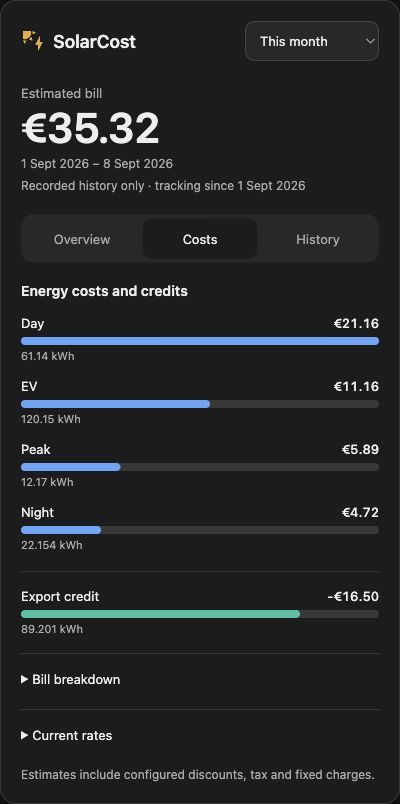
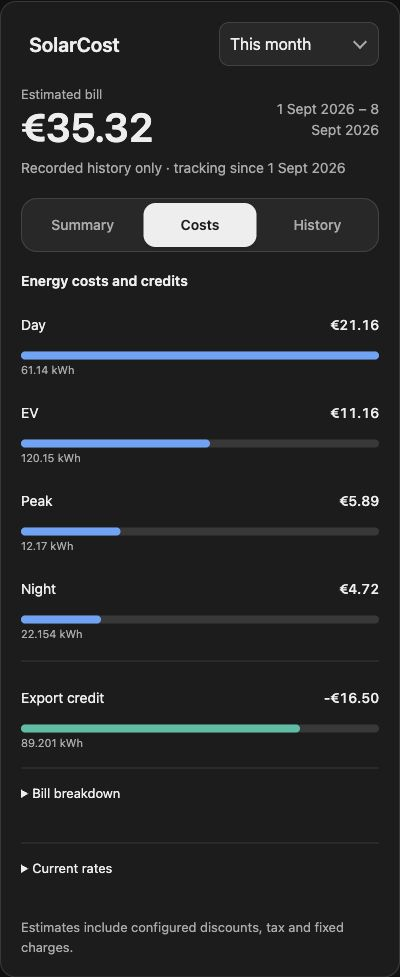
fix: prevent card startup failures and refresh dashboard UI (#7)

diff --git a/custom_components/solarcost/solarcost-card.js b/custom_components/solarcost/solarcost-card.js
@@ -1,12 +1,14 @@
 /* One SolarCost card, using the integration's existing sensors and reports. */
-import { bandRows } from "./solarcost-tou-card.js";
+// HA replaces the element registry during startup; wait before importing or defining cards.
+if (document.querySelector("home-assistant")) await customElements.whenDefined("home-assistant");
+const { bandRows } = await import(`./solarcost-tou-card.js${new URL(import.meta.url).search}`);
 
 const PERIODS = ["today", "week", "month", "last_month", "last_months", "year", "last_years", "all_time"];
 const ENERGY = [
-  ["solar_kwh", "Solar generated", "mdi:white-balance-sunny", "#e5ad27"],
-  ["usage_kwh", "Home usage", "mdi:home-lightning-bolt", "#60a5fa"],
-  ["import_kwh", "Grid import", "mdi:transmission-tower-import", "#fb923c"],
-  ["export_kwh", "Grid export", "mdi:transmission-tower-export", "#34bfa5"],
+  ["solar_kwh", "Solar generated", "mdi:white-balance-sunny", "var(--echo-solar, #e5ad27)"],
+  ["usage_kwh", "Home usage", "mdi:home-lightning-bolt", "var(--echo-blue, #60a5fa)"],
+  ["import_kwh", "Grid import", "mdi:transmission-tower-import", "var(--echo-orange, #fb923c)"],
+  ["export_kwh", "Grid export", "mdi:transmission-tower-export", "var(--echo-teal, #34bfa5)"],
 ];
 const el = (tag, text, className) => {
   const node = document.createElement(tag);
@@ -35,76 +37,103 @@ class SolarCostCard extends HTMLElement {
     this.requestId = 0;
     this.shadowRoot.innerHTML = `
       <style>
-        :host { display: block; --sc-green: #34bfa5; }
+        :host { display: block; container-type: inline-size; color-scheme: var(--echo-color-scheme, normal); --sc-green: var(--echo-teal, #34bfa5); }
         * { box-sizing: border-box; }
         [hidden] { display: none !important; }
         ha-card { padding: 20px; color: var(--primary-text-color); overflow: hidden; }
-        header { display: flex; align-items: center; justify-content: space-between; gap: 12px; flex-wrap: wrap; }
-        h2 { display: flex; align-items: center; gap: 8px; font-size: 18px; font-weight: 600; margin: 0; }
-        h2 ha-icon { color: #e5ad27; }
-        button, select, input { font: inherit; color: var(--primary-text-color); background: var(--secondary-background-color); }
+        header { display: flex; align-items: center; justify-content: space-between; gap: var(--echo-space-12,12px); flex-wrap: wrap; }
+        h2 { display: flex; align-items: center; gap: var(--echo-space-8,8px); font-size: 20px; font-weight: 600; margin: 0; }
+        h2 ha-icon { color: var(--echo-solar, #e5ad27); }
+        button, select, input { font: inherit; color: var(--primary-text-color); background: var(--echo-secondary-button,var(--secondary-background-color)); }
         button, select { cursor: pointer; }
-        button, select, input { border: 1px solid var(--divider-color); border-radius: 10px; padding: 8px 10px; min-height: 40px; min-width: 0; }
-        select { max-width: 100%; font-size: 13px; }
+        button { font-weight: 500; }
+        button, select, input { border: var(--echo-border-width,1px) solid var(--divider-color); border-radius:var(--echo-control-radius, 10px); padding: var(--echo-space-8,8px) var(--echo-space-12,10px); min-height:44px; min-width: 0; }
+        select { max-width: 100%; font-size:var(--echo-type-14,13px); }
+        .period-control { position: relative; flex: 0 1 160px; min-width: 0; max-width: 100%; }
+        .period-control select { width: 100%; appearance: none; padding-right: 34px; }
+        .period-control::after { content: ''; position: absolute; right: 14px; top: 50%; width: 8px; height: 8px; border-right: 2px solid var(--secondary-text-color); border-bottom: 2px solid var(--secondary-text-color); transform: translateY(-70%) rotate(45deg); pointer-events: none; }
         button:focus-visible, select:focus-visible, input:focus-visible, summary:focus-visible { outline: 2px solid var(--primary-color); outline-offset: 2px; }
-        .dates { display: flex; gap: 8px; flex-wrap: wrap; margin-top: 16px; align-items: end; }
-        .dates label { flex: 1; min-width: 110px; font-size: 12px; color: var(--secondary-text-color); }
-        input { width: 100%; margin-top: 4px; font-size: 13px; }
-        .hero { padding: 24px 0 20px; }
-        .eyebrow { font-size: 13px; color: var(--secondary-text-color); }
-        .amount { font-size: clamp(32px, 8vw, 42px); line-height: 1.3; font-weight: 600; letter-spacing: -1px; font-variant-numeric: tabular-nums; }
+        .dates { display: flex; gap: var(--echo-space-8,8px); flex-wrap: wrap; margin-top: var(--echo-space-16,16px); align-items: end; }
+        .dates label { flex: 1; min-width: 110px; font-size:var(--echo-type-12,12px); color: var(--secondary-text-color); }
+        input { width: 100%; margin-top: var(--echo-space-4,4px); font-size:var(--echo-type-14,13px); }
+        .hero { display: grid; grid-template-columns: 1fr auto; align-items: center; column-gap: 16px; padding: 20px 0; }
+        .hero .eyebrow { grid-column: 1; grid-row: 1; }
+        .hero .amount { grid-column: 1; grid-row: 2; }
+        .hero .range { grid-column: 2; grid-row: 1 / 3; max-width: 128px; text-align: right; line-height: 1.5; }
+        .hero .context { grid-column: 1 / -1; }
+        .hero .muted { font-size: 14px; }
+        .eyebrow { font-size:var(--echo-type-14,13px); color: var(--secondary-text-color); }
+        .amount { font-size: 40px; line-height: 1.3; font-weight: 600; letter-spacing: -1px; font-variant-numeric: tabular-nums; }
         .credit { color: var(--sc-green); }
-        .muted { font-size: 12px; color: var(--secondary-text-color); line-height: 1.5; }
-        .context { margin-top: 4px; }
-        nav { display: flex; padding: 4px; gap: 4px; border-radius: 12px; background: var(--secondary-background-color); margin-bottom: 20px; }
-        nav button { flex: 1; border: 0; background: transparent; color: var(--secondary-text-color); padding: 8px 4px; font-size: 13px; }
-        nav button[aria-pressed="true"] { color: var(--primary-text-color); background: var(--card-background-color); box-shadow: 0 1px 4px #0002; }
-        .energy { display: grid; grid-template-columns: repeat(2, minmax(0, 1fr)); gap: 10px; }
-        .tile { padding: 14px; border: 1px solid var(--divider-color); border-radius: 12px; }
-        .tile ha-icon { margin-bottom: 8px; --mdc-icon-size: 22px; }
-        .tile .value { font-size: 21px; font-weight: 500; margin-top: 3px; font-variant-numeric: tabular-nums; }
-        .unit { font-size: 12px; color: var(--secondary-text-color); font-weight: 400; margin-left: 4px; }
-        .flows { margin-top: 18px; }
-        .line { display: flex; justify-content: space-between; gap: 12px; padding: 7px 0; font-size: 13px; }
+        .muted { font-size:var(--echo-type-12,12px); color: var(--secondary-text-color); line-height: 1.5; }
+        .context { margin-top: var(--echo-space-4,4px); }
+        nav { display: flex; padding: 4px; gap: 4px; border: 1px solid var(--divider-color); border-radius: 16px; background: var(--echo-secondary-button, var(--secondary-background-color)); margin-bottom: var(--echo-space-20,20px); }
+        nav button { flex: 1; border: 0; background: transparent; color: var(--secondary-text-color); border-radius: 12px; min-height: 44px; padding: 8px; font-size: 14px; }
+        nav button:hover { color: var(--primary-text-color); background: var(--card-background-color); }
+        nav button[aria-pressed="true"] { color: var(--card-background-color); background: var(--primary-text-color); font-weight: 600; box-shadow: var(--echo-selection-shadow, 0 1px 4px #0002); }
+        .energy { display: grid; grid-template-columns: repeat(2, minmax(0, 1fr)); gap: var(--echo-space-12,10px); }
+        .tile { padding: 16px; border: var(--echo-border-width,1px) solid var(--divider-color); border-radius: 16px; background: var(--echo-panel, var(--secondary-background-color)); }
+        .tile ha-icon { margin-bottom: var(--echo-space-8,8px); --mdc-icon-size:var(--echo-icon-24,22px); }
+        .tile .value { font-size: 24px; font-weight: 600; margin-top: var(--echo-space-4,3px); font-variant-numeric: tabular-nums; overflow-wrap: anywhere; }
+        .unit { display: inline-block; font-size:var(--echo-type-12,12px); color: var(--secondary-text-color); font-weight: 400; margin-left: var(--echo-space-4,4px); }
+        .flows { margin-top: var(--echo-space-16,18px); }
+        .line { display: flex; justify-content: space-between; gap: var(--echo-space-12,12px); padding: var(--echo-space-8,7px) 0; min-height: 40px; align-items: center; font-size: 14px; }
         .line span { min-width: 0; overflow-wrap: anywhere; }
         strong { white-space: nowrap; font-variant-numeric: tabular-nums; font-weight: 500; }
-        h3 { font-size: 14px; margin: 0 0 4px; font-weight: 600; }
-        .band { margin-top: 16px; }
-        .band.export { border-top: 1px solid var(--divider-color); padding-top: 16px; margin-top: 20px; }
+        h3 { font-size:var(--echo-type-14,14px); margin: 0 0 var(--echo-space-4,4px); font-weight: 600; }
+        .band { margin-top: var(--echo-space-16,16px); }
+        .band.export { border-top: var(--echo-border-width,1px) solid var(--divider-color); padding-top: var(--echo-space-16,16px); margin-top: var(--echo-space-20,20px); }
         .band .line { padding: 0; }
-        .track { height: 8px; border-radius: 4px; margin-top: 7px; background: var(--divider-color); overflow: hidden; }
+        .track { height: 8px; border-radius:var(--echo-radius-small,4px); margin-top: var(--echo-space-8,7px); background: var(--divider-color); overflow: hidden; }
         .fill { height: 100%; border-radius: inherit; }
-        .band small { display: block; font-size: 11px; color: var(--secondary-text-color); margin-top: 4px; }
-        details { border-top: 1px solid var(--divider-color); margin-top: 18px; padding-top: 12px; }
-        summary { cursor: pointer; font-size: 13px; padding: 5px 0; }
-        .note { margin: 12px 0 0; }
+        .band small { display: block; font-size:var(--echo-type-12,11px); color: var(--secondary-text-color); margin-top: var(--echo-space-4,4px); }
+        details { border-top: var(--echo-border-width,1px) solid var(--divider-color); margin-top: var(--echo-space-16,18px); padding-top: var(--echo-space-12,12px); }
+        summary { cursor: pointer; font-size:var(--echo-type-14,13px); padding: var(--echo-space-6,5px) 0; }
+        .note { margin: var(--echo-space-12,12px) 0 0; }
         .note:empty { display: none; }
-        footer { margin-top: 18px; }
-        .history-head { display: flex; justify-content: space-between; gap: 12px; align-items: center; }
-        .history-head button { font-size: 12px; min-height: 34px; padding: 5px 10px; }
-        .legend { display: flex; gap: 8px 12px; flex-wrap: wrap; margin: 14px 0 8px; font-size: 11px; }
-        .legend span { display: inline-flex; align-items: center; gap: 5px; }
+        footer { margin-top: var(--echo-space-16,18px); }
+        .history-head { display: flex; justify-content: space-between; gap: var(--echo-space-12,12px); align-items: center; }
+        .history-head button { font-size:var(--echo-type-12,12px); min-height: 34px; padding: var(--echo-space-6,5px) var(--echo-space-12,10px); }
+        .legend { display: flex; gap: var(--echo-space-8,8px) var(--echo-space-12,12px); flex-wrap: wrap; margin: var(--echo-space-16,14px) 0 var(--echo-space-8,8px); font-size:var(--echo-type-12,11px); }
+        .legend span { display: inline-flex; align-items: center; gap: var(--echo-space-6,5px); }
         .dot { width: 7px; height: 7px; border-radius: 50%; display: inline-block; }
-        .chart-area { display: flex; height: 174px; gap: 8px; margin-top: 12px; }
-        .axis { position: relative; display: flex; flex-direction: column; justify-content: space-between; font-size: 10px; color: var(--secondary-text-color); padding-bottom: 4px; }
-        .plot { position: relative; flex: 1; min-width: 0; display: flex; gap: 2px; border-top: 1px solid var(--divider-color); border-bottom: 1px solid var(--divider-color); }
+        .chart-area { display: flex; height: 174px; gap: var(--echo-space-8,8px); margin-top: var(--echo-space-12,12px); }
+        .axis { position: relative; display: flex; flex-direction: column; justify-content: space-between; font-size:var(--echo-type-12,10px); color: var(--secondary-text-color); padding-bottom: var(--echo-space-4,4px); }
+        .plot { position: relative; flex: 1; min-width: 0; display: flex; gap: var(--echo-space-2,2px); border-top: var(--echo-border-width,1px) solid var(--divider-color); border-bottom: var(--echo-border-width,1px) solid var(--divider-color); }
         .baseline { position: absolute; left: 0; right: 0; height: 1px; background: var(--divider-color); pointer-events: none; }
         .column { position: relative; flex: 1; min-width: 0; min-height: 0; border: 0; border-radius: 3px; padding: 0; background: transparent; }
-        .column:hover, .column[aria-pressed="true"] { background: var(--secondary-background-color); }
+        .column:hover, .column[aria-pressed="true"] { background: var(--echo-secondary-button,var(--secondary-background-color)); }
         .column i { position: absolute; display: block; min-height: 1px; border-radius: 2px; pointer-events: none; }
-        .xlabels { display: flex; justify-content: space-between; gap: 4px; margin-top: 7px; font-size: 10px; color: var(--secondary-text-color); }
-        .selection { margin-top: 16px; }
-        .selection .energy { gap: 6px 16px; margin-top: 8px; }
-        .selection .line { display: block; padding: 3px 0; }
-        .selection strong { display: block; margin-top: 3px; }
+        .xlabels { display: flex; justify-content: space-between; gap: var(--echo-space-4,4px); margin-top: var(--echo-space-8,7px); font-size:var(--echo-type-12,10px); color: var(--secondary-text-color); }
+        .selection { margin-top: var(--echo-space-16,16px); }
+        .selection .energy { gap: var(--echo-space-6,6px) var(--echo-space-16,16px); margin-top: var(--echo-space-8,8px); }
+        .selection .line { display: block; padding: var(--echo-space-4,3px) 0; }
+        .selection strong { display: block; margin-top: var(--echo-space-4,3px); }
         .error { color: var(--error-color, #db4437); }
+        .grid-energy { margin: 12px 0; }
+        .device-details { margin-top: 12px; }
+        .device-details > summary { display: flex; align-items: center; justify-content: space-between; min-height: 48px; font-size: 14px; list-style: none; color: var(--primary-color); }
+        .device-details > summary::after { content: '+'; font-size: 20px; }
+        .device-details[open] > summary::after { content: '−'; }
+        .device-details > summary::-webkit-details-marker { display: none; }
+        input, select { border-width: 1px; }
+        @container (max-width: 430px) {
+          header { gap: var(--echo-space-8,8px); }
+          h2 { line-height: 1.35; }
+          button, input, select, summary { min-height: 44px; touch-action: manipulation; }
+          input, select { font-size: var(--echo-type-16,16px); }
+          nav { overflow-x: auto; overscroll-behavior-x: contain; }
+          .muted, .eyebrow { font-size: var(--echo-type-14,13px); }
+          .history-head { flex-wrap: wrap; }
+          .history-head button { min-height: 44px; }
+        }
       </style>
       <ha-card>
-        <header><h2><ha-icon icon="mdi:solar-power"></ha-icon><span>SolarCost</span></h2><select class="period" aria-label="Reporting period"></select></header>
+        <header><h2><ha-icon icon="mdi:solar-power"></ha-icon><span>SolarCost</span></h2><div class="period-control"><select class="period" aria-label="Reporting period"></select></div></header>
         <form class="dates" hidden><label>From<input type="date" name="start" required></label><label>To<input type="date" name="end" required></label><button>Apply</button></form>
         <div class="hero"><div class="eyebrow">Estimated bill</div><div class="amount">—</div><div class="muted range"></div><div class="muted context" role="status"></div></div>
-        <nav aria-label="Card view"><button data-view="overview" aria-pressed="true">Overview</button><button data-view="costs" aria-pressed="false">Costs</button><button data-view="history" aria-pressed="false">History</button></nav>
-        <section class="overview"><div class="energy"></div><div class="flows"></div></section>
+        <nav aria-label="Card view"><button data-view="overview" aria-pressed="true">Summary</button><button data-view="costs" aria-pressed="false">Costs</button><button data-view="history" aria-pressed="false">History</button></nav>
+        <section class="overview"><div class="energy"></div><details class="device-details"><summary>Grid exchange</summary><div class="grid-energy energy"></div><div class="flows"></div></details></section>
         <section class="costs" hidden><h3>Energy costs and credits</h3><div class="bars" role="list" aria-label="Costs by time band and export credit"></div><p class="muted band-note note"></p><details class="bill-details" open><summary>Bill breakdown</summary><div class="breakdown"></div></details><details><summary>Current rates</summary><div class="rates"></div><p class="muted">Effective prices now, including configured discounts and VAT. Historical costs retain their recorded prices.</p></details></section>
         <section class="history" hidden><div class="history-head"><h3>Bill history</h3><button class="chart-toggle">Show energy</button></div><p class="muted history-status" role="status"></p><div class="history-chart"></div></section>
         <footer class="muted">Estimates include configured discounts, tax and fixed charges.</footer>
@@ -275,6 +304,7 @@ class SolarCostCard extends HTMLElement {
       tile.append(symbol, el("div", name, "muted"), value);
       return tile;
     }));
+    root.querySelector(".grid-energy").replaceChildren(...[...root.querySelector(".overview > .energy").children].slice(2));
     root.querySelector(".flows").replaceChildren(
       this.line("Imported electricity", this.money(this.data.import_cost)),
       this.line("Export credit", this.money(this.data.export_credit)),
@@ -420,13 +450,14 @@ class SolarCostCardEditor extends HTMLElement {
     this.attachShadow({ mode: "open" }).innerHTML = `
       <style>
         :host { display: block; color: var(--primary-text-color); }
-        label { display: block; margin: 16px 0; font-size: 14px; }
+        label { display: block; margin: var(--echo-space-16,16px) 0; font-size:var(--echo-type-14,14px); }
         input, select { display: block; box-sizing: border-box; width: 100%; min-height: 44px;
-          margin-top: 6px; padding: 10px; font: inherit; color: var(--primary-text-color);
-          background: var(--secondary-background-color); border: 1px solid var(--divider-color); border-radius: 8px; }
+          margin-top: var(--echo-space-6,6px); padding: var(--echo-space-12,10px); font: inherit; color: var(--primary-text-color);
+          background: var(--echo-secondary-button,var(--secondary-background-color)); border: var(--echo-border-width,1px) solid var(--divider-color); border-radius:var(--echo-radius-small,8px); }
         input:focus-visible, select:focus-visible { outline: 2px solid var(--primary-color); outline-offset: 2px; }
-        h3 { font-size: 15px; margin: 24px 0 0; }
-        p { font-size: 13px; line-height: 1.5; color: var(--secondary-text-color); }
+        h3 { font-size:var(--echo-type-16,15px); margin: var(--echo-space-24,24px) 0 0; }
+        p { font-size:var(--echo-type-14,13px); line-height: 1.5; color: var(--secondary-text-color); }
+        input, select { border-width: 1px; }
       </style>
       <label>SolarCost bill sensor<select class="entity" required></select></label>
       <p>Choose the setup and period to show initially. All its other periods are available in the card.</p>
@@ -499,3 +530,6 @@ if (!customElements.get("solarcost-card")) {
   window.customCards = window.customCards || [];
   window.customCards.push({ type: "solarcost-card", name: "SolarCost", description: "Energy, bill estimates, time-of-use costs and history in one card." });
 }
+
+// Preserve dashboards using the earlier HA-local card name.
+if (!customElements.get("echo-solarcost-card")) customElements.define("echo-solarcost-card", class extends SolarCostCard {});

diff --git a/tests/card_preview.html b/tests/card_preview.html
@@ -6,14 +6,14 @@
   body { margin: 20px; background: #111; color: #eee; font: 14px system-ui; }
   main { display: flex; align-items: start; gap: 24px; flex-wrap: wrap; }
   ha-card { display: block; background: var(--card-background-color); border-radius: 16px; border: 1px solid var(--divider-color); }
-  solarcost-card { width: 340px; --primary-text-color: #eee; --secondary-text-color: #aaa; --card-background-color: #1c1c1c; --secondary-background-color: #282828; --divider-color: #ffffff1f; --primary-color: #60a5fa; }
+  solarcost-card { width: 340px; max-width: 100%; --primary-text-color: #eee; --secondary-text-color: #aaa; --card-background-color: #1c1c1c; --secondary-background-color: #282828; --divider-color: #ffffff1f; --primary-color: #60a5fa; }
   solarcost-card.wide { width: 500px; --primary-text-color: #222; --secondary-text-color: #666; --card-background-color: #fff; --secondary-background-color: #f2f4f7; --divider-color: #0002; --primary-color: #3378cf; }
 </style>
 <h1>SolarCost · sample data only</h1>
 <p id="checks">Running browser checks…</p>
 <main><solarcost-card></solarcost-card><solarcost-card class="wide"></solarcost-card></main>
 <script type="module">
-import "../custom_components/solarcost/solarcost-card.js";
+import "../custom_components/solarcost/solarcost-card.js?v=preview";
 customElements.define("ha-card", class extends HTMLElement {
   constructor() {
     super();
@@ -57,6 +57,17 @@ const choose = value => { const select = root.querySelector(".period"); select.v
 try {
   assert(root.querySelectorAll(".period option").length === 9, "All periods and custom dates must be offered");
   assert(root.querySelector(".amount").textContent === "€35.32", "Overview must show net bill");
+  assert(root.querySelector('[data-view="overview"]').textContent === "Summary", "The overview tab must use the HA Summary label");
+  assert(getComputedStyle(root.querySelector('[data-view="overview"]')).backgroundColor !== getComputedStyle(root.querySelector('[data-view="history"]')).backgroundColor, "Selected tabs must have a distinct background");
+  assert(getComputedStyle(root.querySelector(".period")).appearance === "none" && parseFloat(getComputedStyle(root.querySelector(".period")).paddingRight) >= 32, "The period selector must reserve room for its aligned custom arrow");
+  assert(root.querySelector(".overview > .energy").children.length === 2, "Summary must show solar generation and home usage");
+  assert([...root.querySelectorAll(".overview > .energy .tile")].every(tile => tile.scrollWidth <= tile.clientWidth), "Energy amounts and units must fit inside narrow tiles");
+  const exchange = root.querySelector(".device-details");
+  assert(!exchange.open && root.querySelector(".grid-energy").children.length === 2, "Grid import and export must start collapsed");
+  exchange.open = true;
+  card.hass = { ...hass, states: { ...states, "sensor.month_bill": { ...states["sensor.month_bill"] } } };
+  assert(exchange.open && root.querySelector(".grid-energy").children.length === 2, "Live updates must preserve the grid disclosure and its energy tiles");
+  exchange.open = false;
   assert(card.money(0.004151) === "€0.004151", "Sub-cent costs must not appear free");
   assert(card.money(-0.004151) === "-€0.004151", "Sub-cent credits must keep their sign");
   root.querySelector('[data-view="costs"]').click();
@@ -133,7 +144,7 @@ try {
   assert(edited.title === "Electricity" && edited.type === "custom:solarcost-card", "Visual edits must preserve the complete card configuration");
   titleInput.value = ""; titleInput.dispatchEvent(new Event("change"));
   assert(!("title" in edited), "Clearing the title must restore its default");
-    document.querySelector("#checks").textContent = "PASS: periods, credits, TOU grouping, live updates, report history, stale responses, custom dates, errors, chart bounds, export credit and visual editing.";
+    document.querySelector("#checks").textContent = "PASS: Summary, grid disclosure, periods, credits, TOU grouping, live updates, report history, stale responses, custom dates, errors, chart bounds, export credit and visual editing.";
 } catch (error) { document.querySelector("#checks").textContent = `FAIL: ${error.message}`; throw error; }
 
 // Open ?view=overview|costs|history|energy for clean, reproducible README captures.

diff --git a/custom_components/solarcost/solarcost-tou-card.js b/custom_components/solarcost/solarcost-tou-card.js
@@ -1,4 +1,7 @@
 /* SolarCost's dependency-free time-of-use card. */
+// HA replaces the element registry during startup; wait before defining card classes.
+if (document.querySelector("home-assistant")) await customElements.whenDefined("home-assistant");
+
 export function bandRows(bands, names = {}) {
   const grouped = new Map();
   for (const [key, band] of Object.entries(bands)) {

diff --git a/README.md b/README.md
@@ -131,7 +131,7 @@ Replace these example prices and times with your own tariff. SolarCost starts tr
 One card, one selected period. Switch between the energy overview, time-of-use costs and interactive bill or energy history. These screenshots use **example data**, not a household's readings.
 
 <p>
-  <img src="docs/screenshots/overview.png" alt="SolarCost Overview with estimated bill and four energy totals" width="320">
+  <img src="docs/screenshots/overview.png" alt="SolarCost Summary with estimated bill, solar and home energy totals, and expandable grid exchange" width="320">
   <img src="docs/screenshots/costs.png" alt="SolarCost Costs comparing Day, EV, Peak and Night rates with export credit" width="320">
 </p>
 <p>
@@ -158,13 +158,15 @@ Choose any **Estimated bill** sensor belonging to your SolarCost setup. Its repo
 
 Use the period selector for **Today**, **This week**, **This month**, **Last month**, your configured month/year windows or **All time**. Every view follows the same selected period:
 
-- **Overview:** a prominent estimated bill or credit, plus solar generation, home usage, grid import and export in kWh, with imported electricity cost and export credit.
+- **Summary:** a prominent estimated bill or credit, plus solar generation and home usage in kWh. Expand **Grid exchange** for grid import, export, imported electricity cost and export credit.
 - **Costs:** horizontal bars compare costs by time-of-use band, with each band's kWh underneath. A green export-credit bar underneath uses the same scale to show the offset against imports. The bill breakdown includes standing charges, monthly fees and export credit. Expand **Current rates** to see the effective import and export prices now.
 - **History:** switch between bill and energy charts, then select a date’s bars for exact amounts below the chart. With only one recorded period, its details are already shown. Short ranges use daily bars, medium ranges use months, and long ranges use years. Credit amounts extend below zero. Charts read SolarCost's own stored ledger.
 
 For a two-month bill, choose **Custom dates**, enter the supplier's start and end dates, then select **Apply**. Both dates are included. Overview, Costs and History all use that report. Custom reports are snapshots; select **Apply** again to refresh them. Standard reporting periods update automatically.
 
 When upgrading from the earlier dashboard template, replace the entire SolarCost vertical stack with the short configuration above. The older standalone `custom:solarcost-tou-card` remains supported. You can still build other dashboards using the individual SolarCost sensors.
+
+The card waits for Home Assistant's frontend to finish registering its root element before registering itself. This prevents intermittent **Custom element not found: solarcost-card** errors during startup. After updating, restart Home Assistant and refresh the dashboard to load the new card. The card also follows optional `--echo-*` theme variables, with Home Assistant defaults when they are absent, and preserves the earlier `custom:echo-solarcost-card` name used by existing dashboards.
 
 ## Understand your estimates
 
